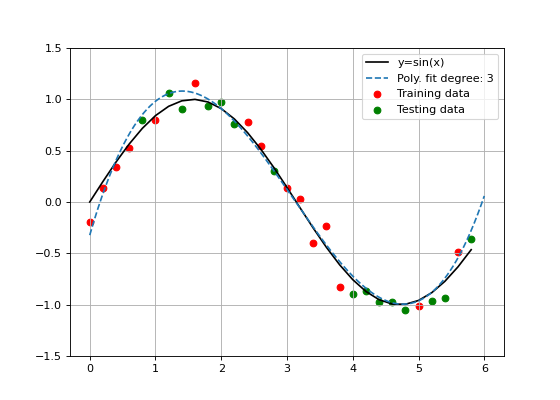
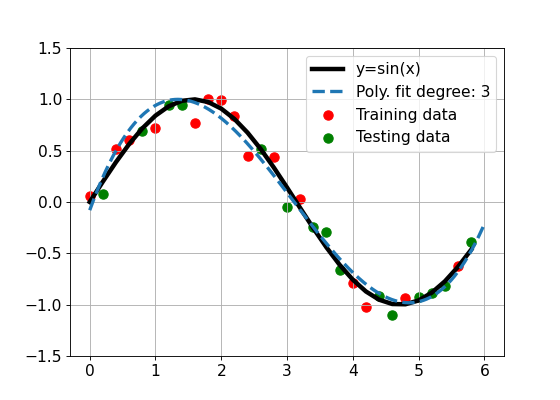
made ML example figures more readable; increased font size and made lines and points larger

diff --git a/ml_example.py b/ml_example.py
@@ -6,6 +6,11 @@ import random
 
 if __name__ == "__main__":
     print("ML example")
+    # set font size
+    font = {'size'   : 14}
+
+    plt.rc('font', **font)
+    
     figure(num=None, figsize=(7, 5), dpi=80, facecolor='w', edgecolor='k')
     plt.title("")
     plt.xlabel("")
@@ -23,8 +28,8 @@ if __name__ == "__main__":
     tr_data = data[:15]
     ts_data = data[15:]
 
-    plt.plot(time, sine, color='black')
-    plt.scatter(time, noisy_sine)
+    plt.plot(time, sine, color='black', linewidth=4)
+    plt.scatter(time, noisy_sine, s=70)
 
     plt.legend(["y=sin(x)", "Complete data set"])
     plt.savefig('figures/ML/pure.png')
@@ -37,9 +42,9 @@ if __name__ == "__main__":
     #plt.xscale('log')
     plt.grid(True)
     
-    plt.plot(time, sine, color="black")
-    plt.scatter(*zip(*tr_data), color='red')
-    plt.scatter(*zip(*ts_data), color='green')
+    plt.plot(time, sine, color="black", linewidth=4)
+    plt.scatter(*zip(*tr_data), color='red', s=70)
+    plt.scatter(*zip(*ts_data), color='green', s=70)
 
     plt.legend(["y=sin(x)", "Training data", "Testing data"])
     plt.savefig('figures/ML/divided_and_shuffled.png')
@@ -59,10 +64,10 @@ if __name__ == "__main__":
         plt.ylim([-1.5, 1.5])
 
         model = np.poly1d(np.polyfit(x,y,i)) 
-        plt.plot(time, sine, color="black")
-        plt.plot(model_line, model(model_line), linestyle='--')
-        plt.scatter(*zip(*tr_data), color='red')
-        plt.scatter(*zip(*ts_data), color='green')
+        plt.plot(time, sine, color="black", linewidth=4)
+        plt.plot(model_line, model(model_line), linestyle='--', linewidth=3)
+        plt.scatter(*zip(*tr_data), color='red', s=70)
+        plt.scatter(*zip(*ts_data), color='green', s=70)
         
         plt.legend(["y=sin(x)", "Poly. fit degree: " + str(i),"Training data", "Testing data"])
         plt.savefig('figures/ML/degree'+str(i)+'.png')
